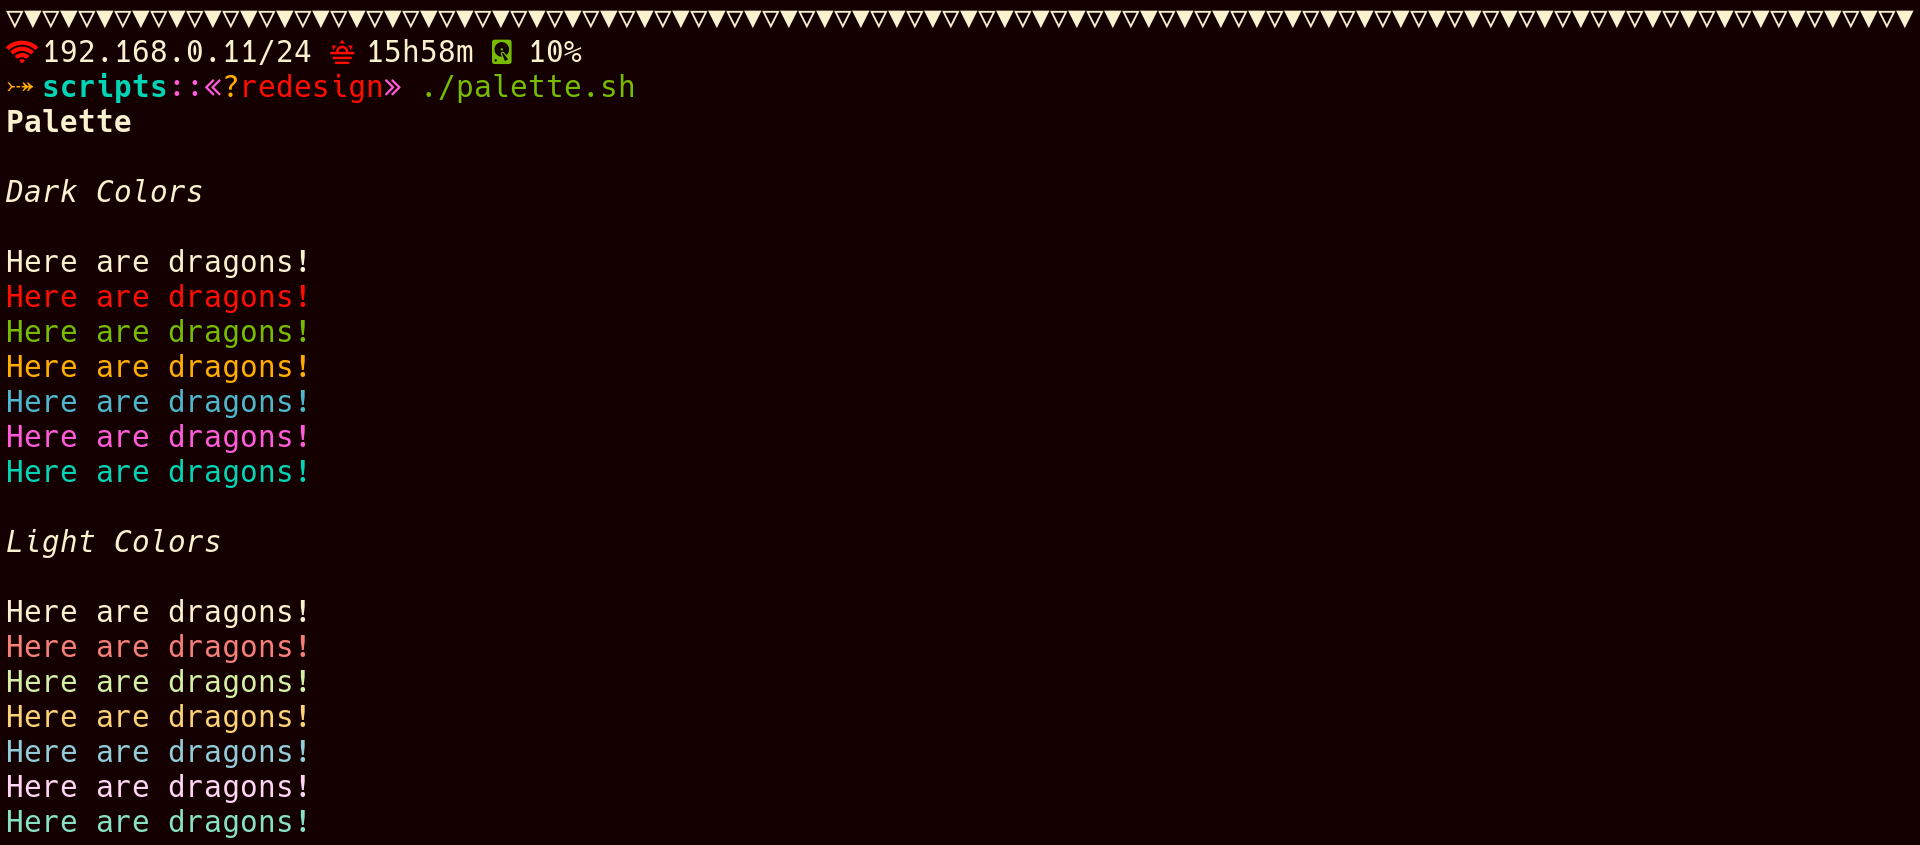
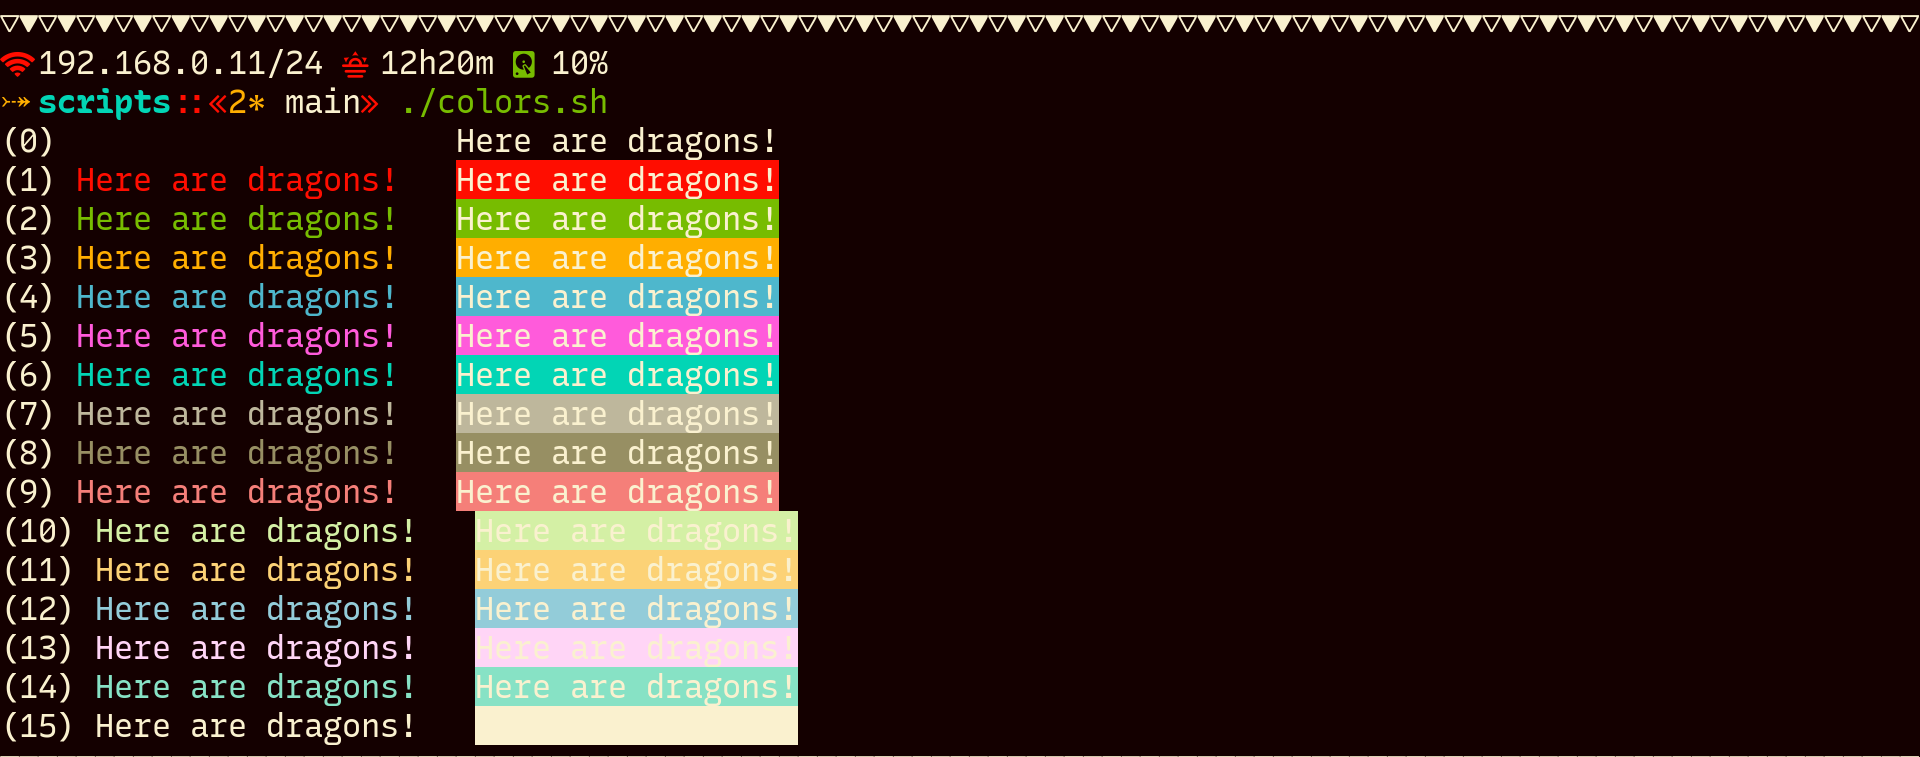
docs: update preview with new script.

Changed region(s): [[0.0, 0.0, 1.0, 1.0]]

diff --git a/README.md b/README.md
@@ -20,6 +20,9 @@ It is available for the applications and style languages I use most.
 
 ![](images/preview/light_palette.png)
 
+There is the script `scripts/colors.sh` that you can use to review the
+palette of the themes.
+
 
 ## Installation
 
@@ -46,9 +49,9 @@ It is available for the applications and style languages I use most.
   + [`Becho`](https://github.com/skippyr/becho) - A terminal utility designed
     to help you treat, style and print text to the standard output.
   + [`River Dreams`](https://github.com/skippyr/river_dreams) - The ZSH theme
-    that you have been dreaming for a long time.
-  + [`Recursive`](https://github.com/arrowtype/recursive) - a font that looks
-    perfect.
+    that developers have been dreaming for a long time.
+  + [`Recursive`](https://github.com/arrowtype/recursive) - a perfect coding
+    font.
 
 
 ## Issues And Enhancements
